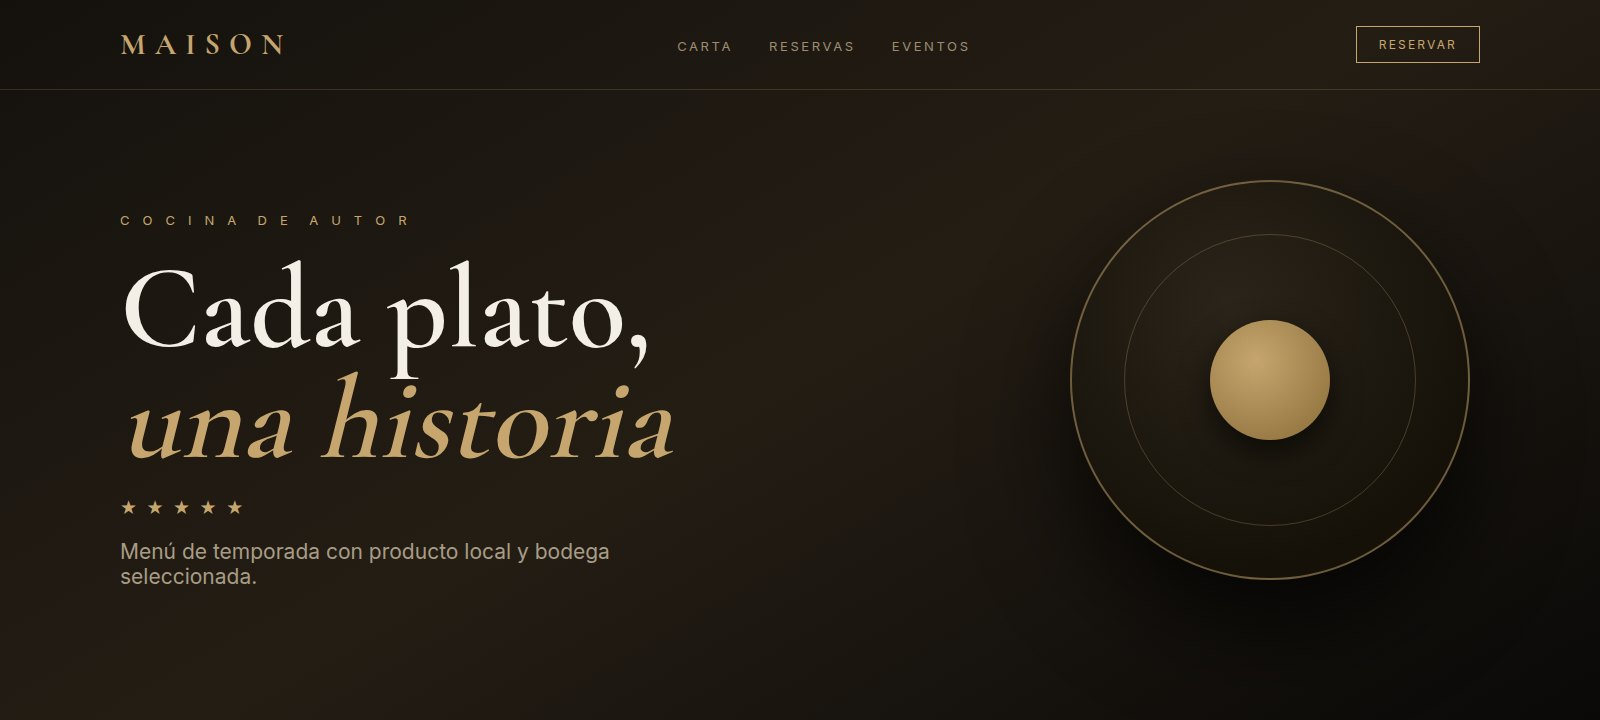
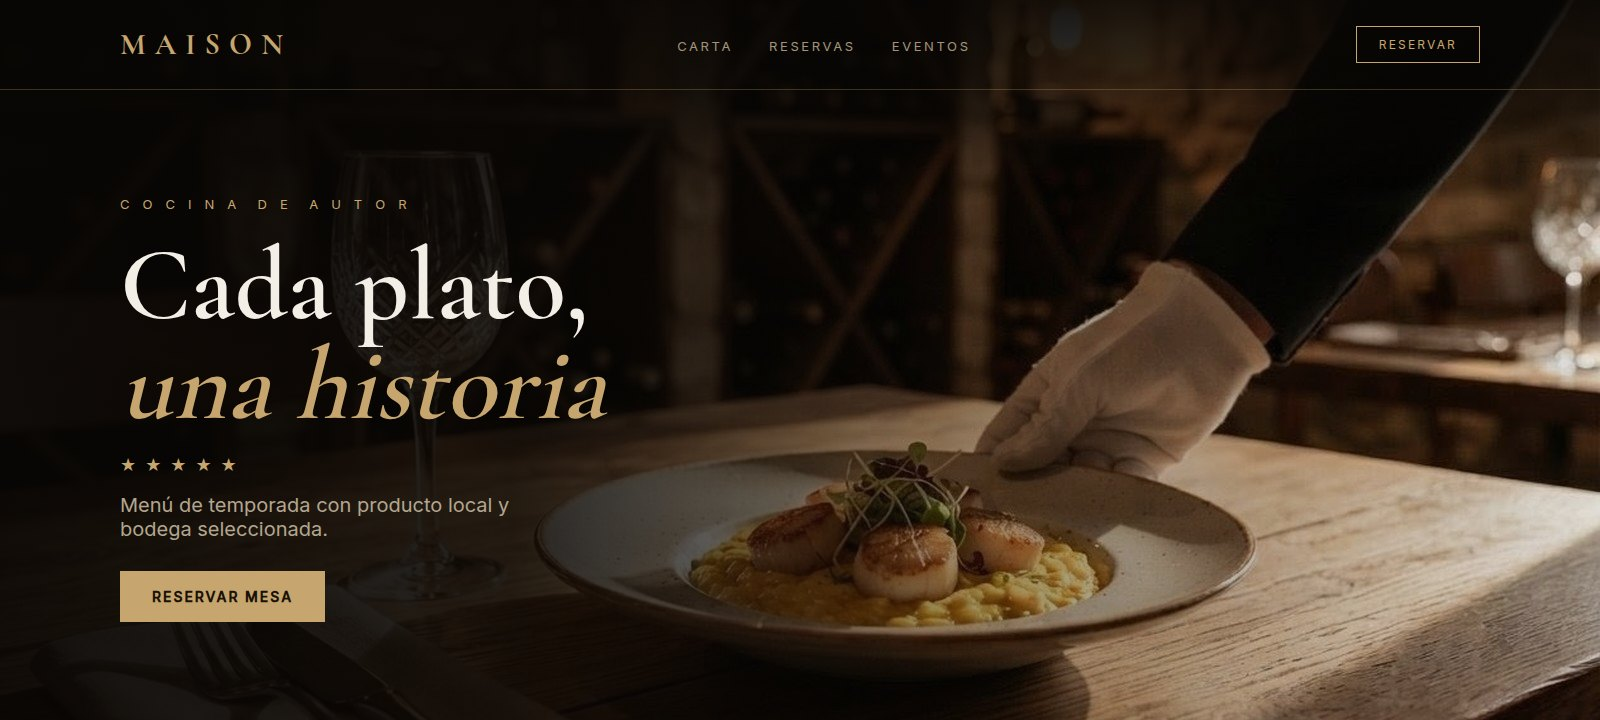
Añade "Bistró del Barrio" y pone foto real en las dos de restaurante
Las dos fotografías aportadas no compiten: una es alta cocina y la otra
es el restaurante de todos los días, que en España vive del menú del día.
En vez de descartar una, la segunda estrena plantilla propia.

- Restaurante Gourmet estrena la foto del emplatado con bodega al fondo,
  con velo oscuro y serif dorada.
- Nueva plantilla Bistró del Barrio (129 €): menú del día actualizable,
  carta por secciones, reserva y pedidos para llevar. Es el segmento con
  más locales de la categoría y hasta ahora no estaba cubierto.
- Su portada alinea el texto a la derecha, porque el plato ocupa la mitad
  izquierda del encuadre; de paso rompe la monotonía de la retícula.

Catálogo: 17 plantillas en 12 categorías.

Claude-Session: https://claude.ai/code/session_01GH4UBwAk37e4FV2NGANpez

diff --git a/src/lib/seed-data.ts b/src/lib/seed-data.ts
@@ -137,7 +137,7 @@ const seed: SeedTemplate[] = [
     categorySlug: "restaurantes",
     title: "Restaurante Gourmet",
     slug: "restaurante-gourmet",
-    short_description: "Carta interactiva, reservas de mesa y sección de eventos privados.",
+    short_description: "Alta cocina: carta interactiva, reserva de mesa y eventos privados.",
     full_description:
       "Plantilla premium para restaurantes: carta interactiva con filtros por tipo de plato, reserva de mesa, presentación del chef, sección de eventos privados y galería de sala. Diseño oscuro y elegante que hace destacar la fotografía de los platos.",
     price_cents: 15900,
@@ -149,6 +149,27 @@ const seed: SeedTemplate[] = [
       "Sección de eventos privados",
       "Galería de sala y platos",
       "Multi-idioma preparado",
+      SEO,
+    ],
+  },
+  {
+    id: `${TPL}17`,
+    categorySlug: "restaurantes",
+    title: "Bistró del Barrio",
+    slug: "bistro-del-barrio",
+    short_description: "Restaurante de barrio con menú del día, carta y reserva de mesa.",
+    full_description:
+      "Para el restaurante de todos los días: menú del día que se actualiza cada semana sin tocar código, carta completa por secciones, reserva de mesa, pedidos para llevar por WhatsApp y galería del local. Pensada para el negocio que vive del cliente habitual, no de la ocasión especial.",
+    price_cents: 12900,
+    preview_url: null,
+    gradient: "linear-gradient(160deg,#20160c,#3a2a18 55%,#140e08)",
+    features: [
+      "Menú del día actualizable cada semana",
+      "Carta completa por secciones",
+      "Reserva de mesa online",
+      "Pedidos para llevar por WhatsApp",
+      "Galería del local",
+      RESPONSIVE,
       SEO,
     ],
   },
